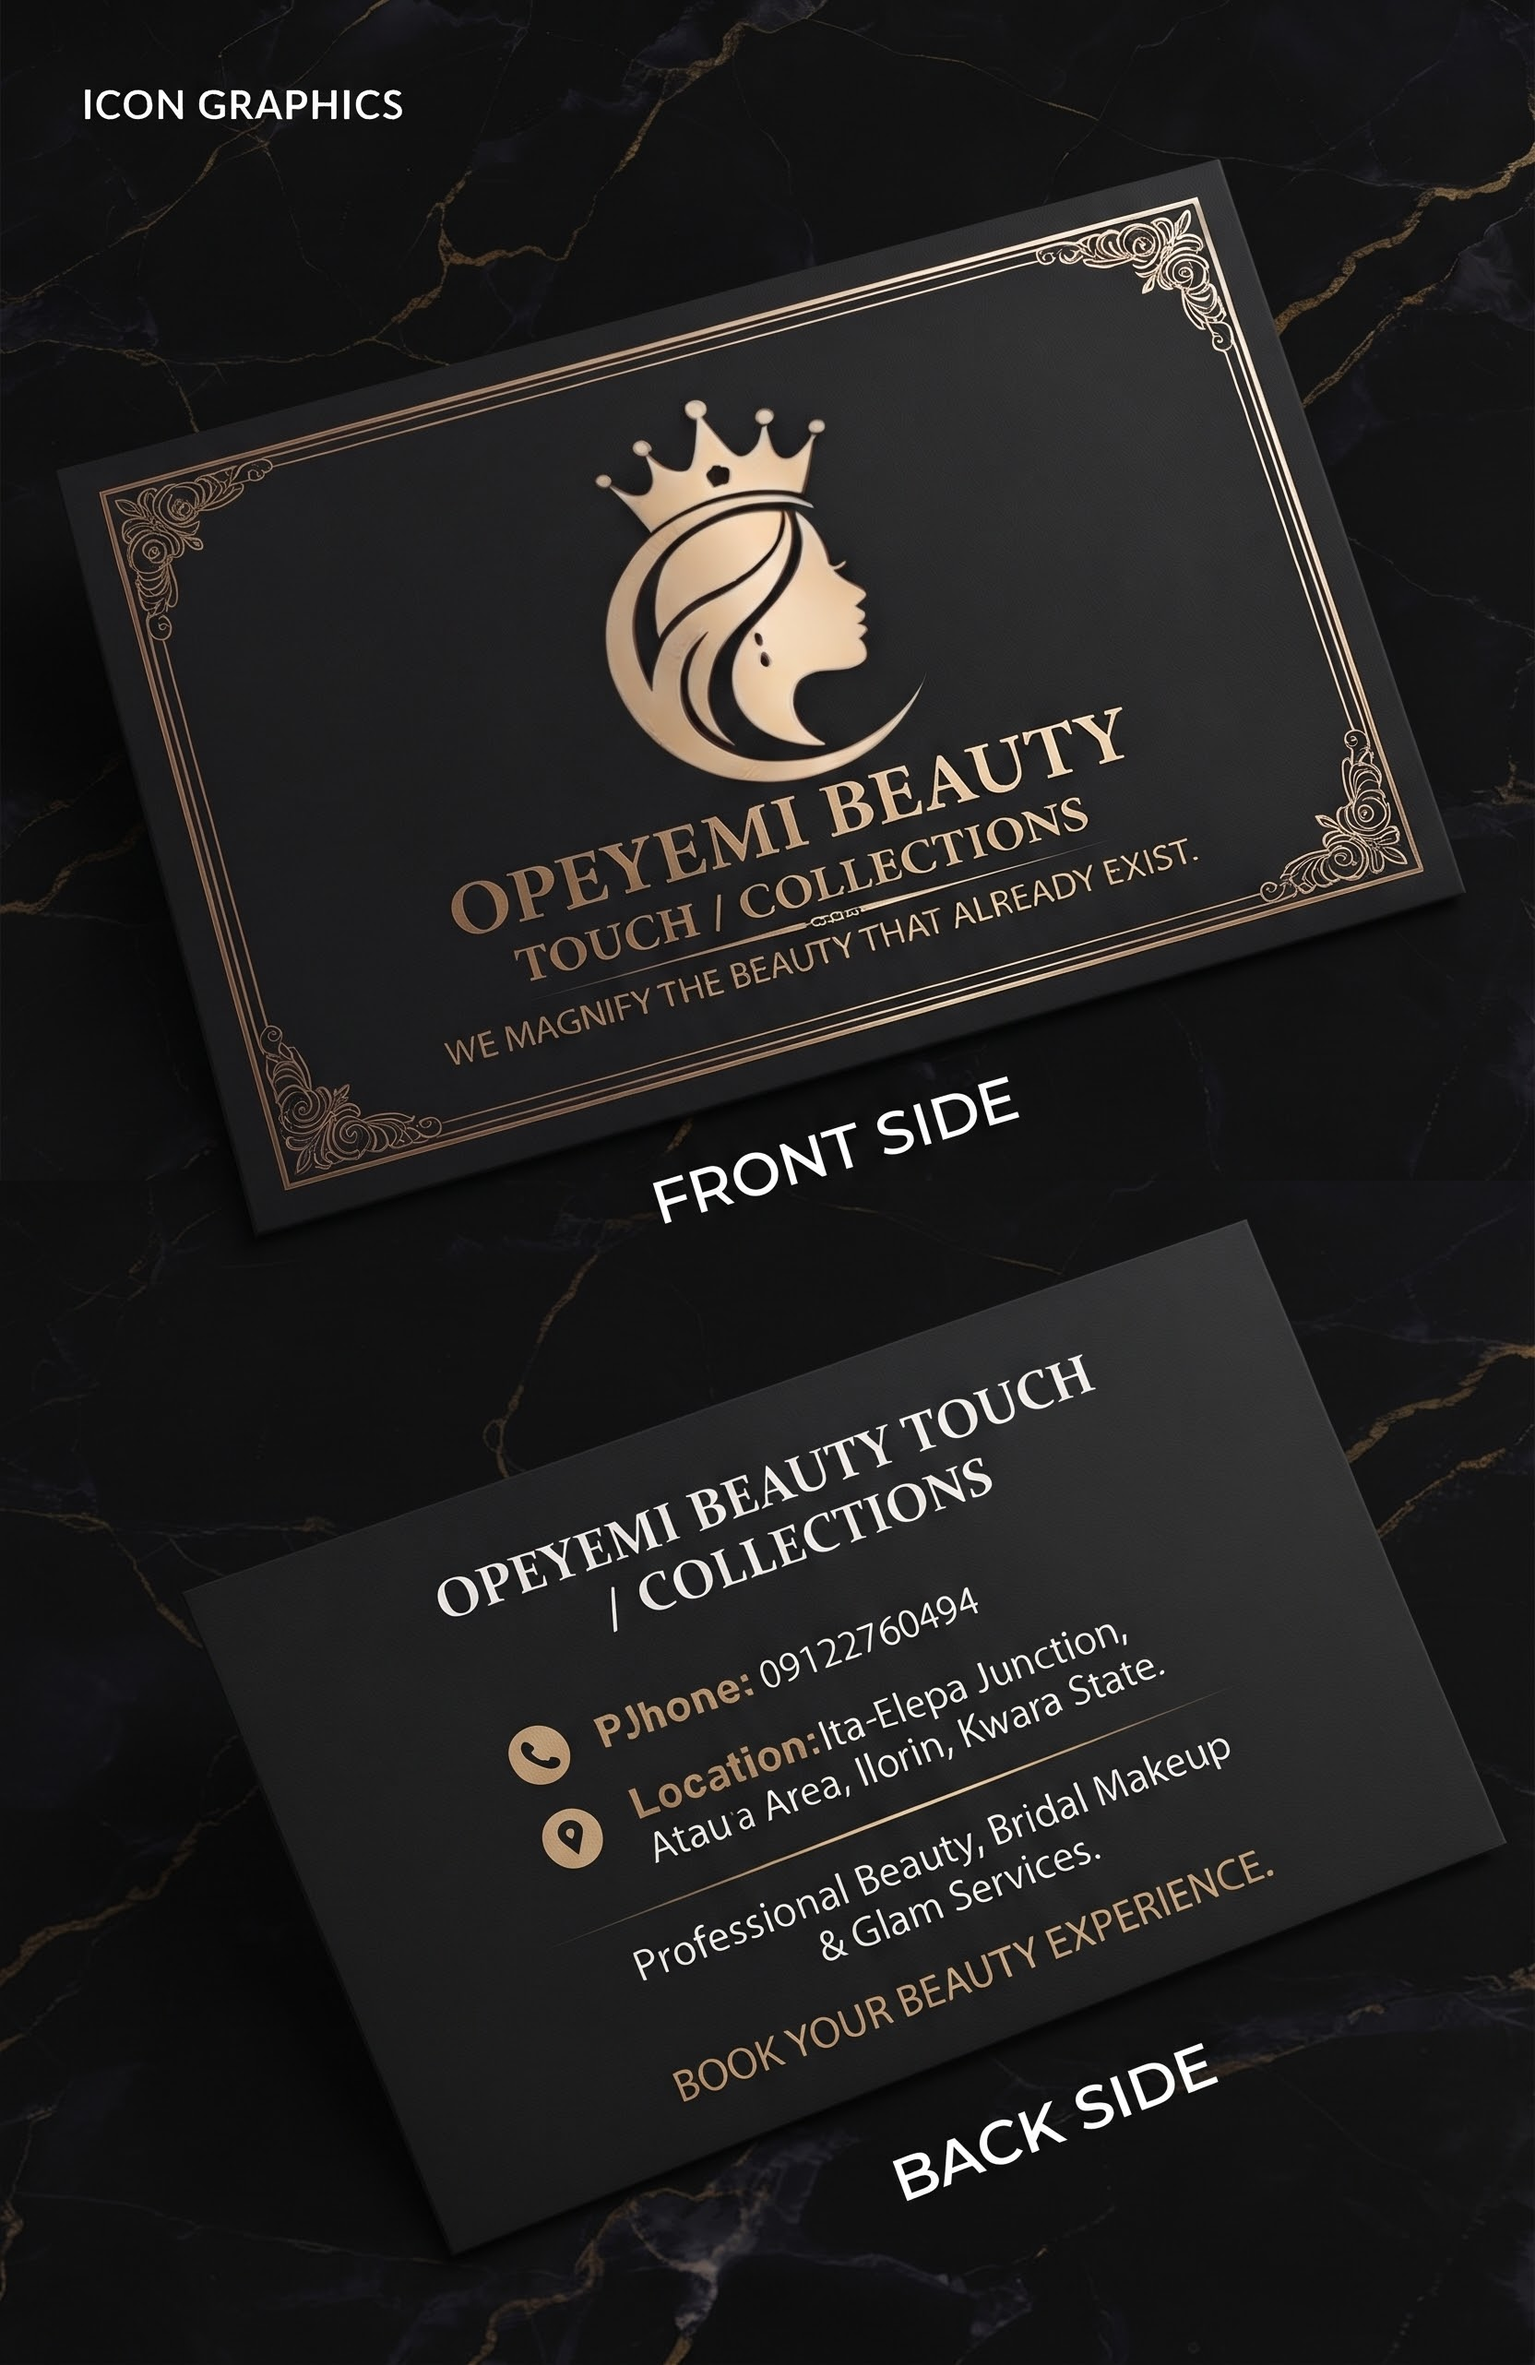
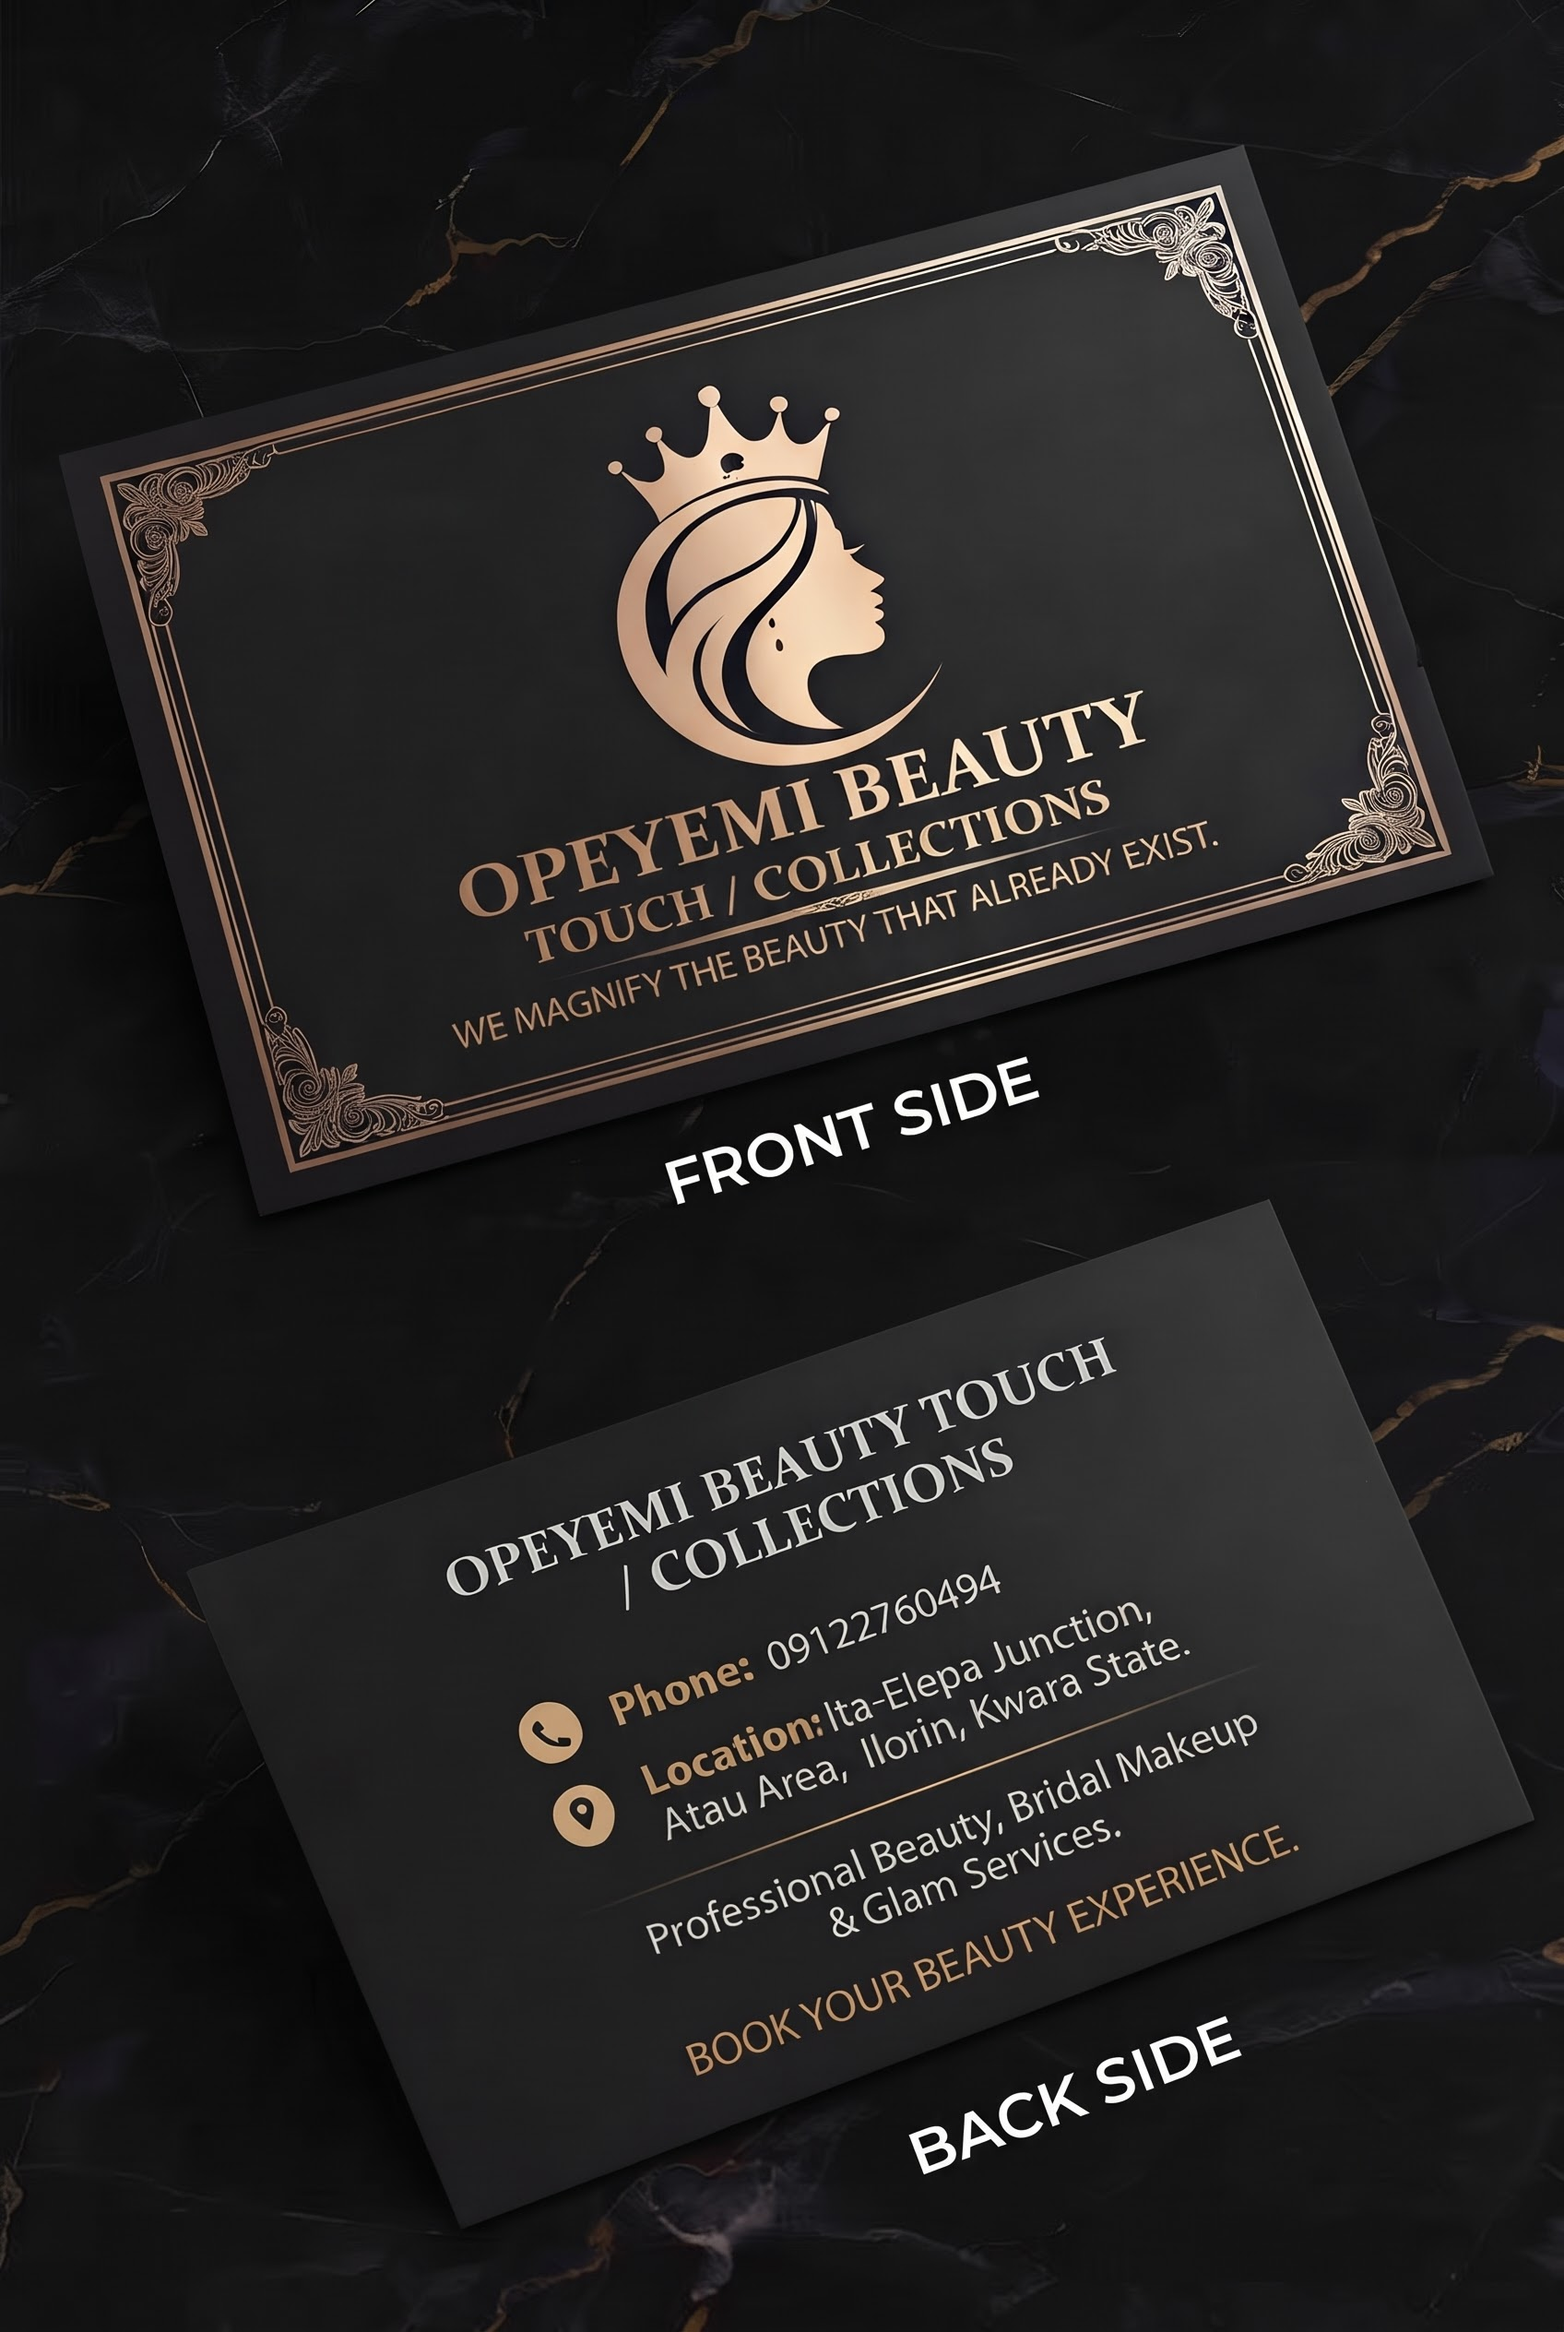
Fix FAQ mobile order and add sticky project summary card to case studies (6aec601d8c84303aaf4811d5)

diff --git a/src/components/MarketingPage.tsx b/src/components/MarketingPage.tsx
@@ -942,7 +942,7 @@ export function FAQ() {
   return (
     <section className="section light" id="faq">
       <div className="wrap faq-layout">
-        <div>
+        <div className="faq-intro">
           <Label>A LITTLE CLARITY</Label>
           <h2>
             You ask.
@@ -953,30 +953,11 @@ export function FAQ() {
             Everything you need to know about starting a project, transparent
             pricing, revision workflows, and delivery arrangements.
           </p>
-          <aside className="faq-contact-card" aria-labelledby="faq-contact-title">
-            <h3 id="faq-contact-title">Still have questions?</h3>
-            <div className="faq-contact-person">
-              <img
-                src="/.netlify/images?url=/img/rapheal-adebayo-supplied.jpeg&w=128&h=128&fit=cover"
-                alt="Rapheal Adebayo, Founder & Creative Director"
-                width={64}
-                height={64}
-                loading="lazy"
-              />
-              <p>
-                Talk directly with Rapheal Adebayo, Founder &amp; Creative
-                Director.
-              </p>
-            </div>
-            <WA
-              className="faq-contact-button"
-              message="Hello Rapheal, I have a question about working with ICON GRAPHICS."
-            >
-              Chat on WhatsApp
-            </WA>
-          </aside>
         </div>
-        <div style={{ display: 'flex', flexDirection: 'column', gap: '32px' }}>
+        <div
+          className="faq-list"
+          style={{ display: 'flex', flexDirection: 'column', gap: '32px' }}
+        >
           {faqCategories.map((category) => (
             <div key={category.title}>
               <h3
@@ -1005,6 +986,28 @@ export function FAQ() {
             </div>
           ))}
         </div>
+        <aside className="faq-contact-card" aria-labelledby="faq-contact-title">
+          <h3 id="faq-contact-title">Still have questions?</h3>
+          <div className="faq-contact-person">
+            <img
+              src="/.netlify/images?url=/img/rapheal-adebayo-supplied.jpeg&w=128&h=128&fit=cover"
+              alt="Rapheal Adebayo, Founder & Creative Director"
+              width={64}
+              height={64}
+              loading="lazy"
+            />
+            <p>
+              Talk directly with Rapheal Adebayo, Founder &amp; Creative
+              Director.
+            </p>
+          </div>
+          <WA
+            className="faq-contact-button"
+            message="Hello Rapheal, I have a question about working with ICON GRAPHICS."
+          >
+            Chat on WhatsApp
+          </WA>
+        </aside>
       </div>
     </section>
   )
@@ -1866,6 +1869,8 @@ export function Portfolio({
 }
 export function ProjectDetail({ project }: { project: Project }) {
   const s = services.find((s) => s.id === project.category)!
+  const projectServices =
+    project.label?.split('·')[1]?.trim() || s.title
   return (
     <Layout>
       <PageHero
@@ -1953,9 +1958,40 @@ export function ProjectDetail({ project }: { project: Project }) {
         ) : null}
 
         <div className="project-description">
-          <div>
+          <div className="project-summary-column">
             <Label>CASE STUDY OVERVIEW</Label>
             <h2>Project details.</h2>
+            <aside
+              className="project-summary-card"
+              aria-labelledby="project-summary-title"
+            >
+              <h3 id="project-summary-title">Project summary</h3>
+              <dl>
+                <div>
+                  <dt>Client</dt>
+                  <dd>{project.client || project.title}</dd>
+                </div>
+                <div>
+                  <dt>Services provided</dt>
+                  <dd>{projectServices}</dd>
+                  {projectServices !== s.title ? (
+                    <dd className="project-summary-meta">{s.title}</dd>
+                  ) : null}
+                </div>
+                {project.location ? (
+                  <div>
+                    <dt>Location</dt>
+                    <dd>{project.location}</dd>
+                  </div>
+                ) : null}
+              </dl>
+              <WA
+                className="project-summary-button"
+                message={`Hello ICON GRAPHICS, I saw your case study for ${project.title} and would like to enquire about a similar project.`}
+              >
+                Enquire on WhatsApp
+              </WA>
+            </aside>
           </div>
           <div>
             <p>{project.description}</p>

diff --git a/src/styles.css b/src/styles.css
@@ -5544,3 +5544,131 @@ video {
     transform: none;
   }
 }
+
+/* ===== FAQ: questions first on mobile, sticky contact card on desktop ===== */
+@media (min-width: 769px) {
+  .faq-layout {
+    grid-template-rows: auto 1fr;
+    row-gap: 0;
+  }
+  .faq-layout > .faq-intro {
+    grid-column: 1;
+    grid-row: 1;
+  }
+  .faq-layout > .faq-list {
+    grid-column: 2;
+    grid-row: 1 / span 2;
+  }
+  .faq-layout > .faq-contact-card {
+    grid-column: 1;
+    grid-row: 2;
+    align-self: start;
+    position: sticky;
+    top: 110px;
+  }
+}
+@media (max-width: 768px) {
+  .faq-layout > .faq-contact-card {
+    margin-top: 8px;
+  }
+}
+
+/* ===== Case study: sticky project summary card ===== */
+.project-description {
+  align-items: start;
+}
+.project-summary-column {
+  position: sticky;
+  top: 110px;
+  align-self: start;
+}
+.project-summary-card {
+  margin-top: 32px;
+  padding: 28px;
+  border-radius: 16px;
+  background: linear-gradient(
+    160deg,
+    rgba(255, 255, 255, 0.08) 0%,
+    rgba(255, 255, 255, 0.03) 100%
+  );
+  border: 1px solid rgba(255, 255, 255, 0.12);
+  box-shadow: 0 20px 50px rgba(0, 0, 0, 0.35);
+  -webkit-backdrop-filter: blur(14px);
+  backdrop-filter: blur(14px);
+}
+.project-summary-card h3 {
+  margin: 0 0 20px;
+  font-size: 13px;
+  font-weight: 700;
+  letter-spacing: 0.16em;
+  text-transform: uppercase;
+  color: #00b4d8 !important;
+}
+.project-summary-card dl {
+  margin: 0 0 26px;
+}
+.project-summary-card dl > div {
+  padding: 14px 0;
+  border-top: 1px solid rgba(255, 255, 255, 0.1);
+}
+.project-summary-card dl > div:first-child {
+  border-top: 0;
+  padding-top: 0;
+}
+.project-summary-card dt {
+  font-size: 10px;
+  font-weight: 600;
+  letter-spacing: 0.16em;
+  text-transform: uppercase;
+  color: #8b8f99 !important;
+}
+.project-summary-card dd {
+  margin: 6px 0 0;
+  font-size: 16px;
+  line-height: 1.45;
+  color: #ffffff !important;
+}
+.project-summary-card dd.project-summary-meta {
+  margin-top: 4px;
+  font-size: 13px;
+  color: #a6aab4 !important;
+}
+.project-summary-button {
+  display: inline-flex;
+  align-items: center;
+  justify-content: center;
+  width: 100%;
+  min-height: 50px;
+  padding: 0 22px;
+  border-radius: 999px;
+  background: linear-gradient(135deg, #f72585 0%, #9b5de5 50%, #00b4d8 100%);
+  color: #ffffff !important;
+  font-weight: 700;
+  box-shadow: 0 6px 20px rgba(247, 37, 133, 0.3);
+  transition: transform 0.2s ease, box-shadow 0.2s ease;
+}
+.project-summary-button:hover {
+  transform: translateY(-2px);
+  box-shadow: 0 8px 26px rgba(247, 37, 133, 0.5);
+}
+.project-summary-button:focus-visible {
+  outline: 2px solid #00b4d8;
+  outline-offset: 3px;
+}
+@media (max-width: 768px) {
+  .project-summary-column {
+    position: static;
+  }
+  .project-summary-card {
+    margin-top: 24px;
+    padding: 22px;
+  }
+}
+@media (prefers-reduced-motion: reduce) {
+  .project-summary-button {
+    transition: none;
+  }
+  .project-summary-button:hover {
+    transform: none;
+  }
+}

diff --git a/src/data/site.ts b/src/data/site.ts
@@ -528,8 +528,8 @@ export const clientProjects: Project[] = [
         src: '/portfolio/opeyemi-beauty-touch-business-cards.jpg',
         alt: 'Front and back of the black and rose-gold Opeyemi Beauty Touch / Collections business card on dark marble: the front shows the crowned silhouette logo, ornate gold border and the tagline We magnify the beauty that already exist; the back lists phone, Ilorin location and the call to action Book your beauty experience',
         caption: 'Business card · front & back',
-        width: 1664,
-        height: 2564,
+        width: 1696,
+        height: 2528,
       },
     ],
     description:

diff --git a/AGENTS.md b/AGENTS.md
@@ -24,4 +24,4 @@ Projects may define a `gallery` (src, alt, caption, intrinsic size) of supplied 
 
 On the Services page, each service shows its first real project card. When a service has no supplied project yet (currently photography, video, web, writing and audio), `ServicePreview` in `MarketingPage.tsx` shows a card with the same structure instead. It uses Unsplash stock photography served through the Image CDN, plus code-native mockups: a viewfinder, a video player whose play button plays the real showreel promo, a laptop showing a dark-theme site, an editorial page and an animated waveform that respects reduced motion. Each card is labelled "CONCEPT PREVIEW". Once real work exists for a service, the project card replaces the preview automatically.
 
-The homepage "The ICON GRAPHICS Difference." section (`IconDifference`, after the services overview) is a dark glassmorphism 4-column grid (2 columns on tablet, 1 on mobile) of four fixed points in `DIFFERENCE_POINTS`; it replaced both the former Studio Capabilities grid and the older homepage "Why" block (`Why` is still used on the About page). Portfolio media in `Art` (cards on the homepage, portfolio and services pages) and the case-study showcase use `object-fit: contain` on a `#121212` bordered stage so artwork is never cropped. Case-study promo videos render through `CaseVideo`, a branded video card: the client's own portfolio image (`project.image`, served through the Image CDN at 40% opacity on a `#121212` pink/purple gradient stage) with a glowing play button covers the video (`preload="auto"`, `playsInline`). Clicking it removes the cover, turns on native controls and starts playback, so no poster uploads are needed. "CONCEPT PREVIEW" badges (`.concept-pill`) use a solid `#0a0a0a` background, white text and a thin translucent border so they stay readable on any image. The homepage FAQ's left column is sticky on desktop and holds a "Still have questions?" WhatsApp contact card with the founder photo. The hero ends with a "SCROLL TO EXPLORE" link whose arrow only bounces when reduced motion is off. `LOCATION` in `src/data/site.ts` holds the official headquarters and availability wording, rendered as a stacked `.location-block` (small grey uppercase labels, white values) in the footer and on the contact/quote aside. Use it as-is and never add a street address.
+The homepage "The ICON GRAPHICS Difference." section (`IconDifference`, after the services overview) is a dark glassmorphism 4-column grid (2 columns on tablet, 1 on mobile) of four fixed points in `DIFFERENCE_POINTS`; it replaced both the former Studio Capabilities grid and the older homepage "Why" block (`Why` is still used on the About page). Portfolio media in `Art` (cards on the homepage, portfolio and services pages) and the case-study showcase use `object-fit: contain` on a `#121212` bordered stage so artwork is never cropped. Case-study promo videos render through `CaseVideo`, a branded video card: the client's own portfolio image (`project.image`, served through the Image CDN at 40% opacity on a `#121212` pink/purple gradient stage) with a glowing play button covers the video (`preload="auto"`, `playsInline`). Clicking it removes the cover, turns on native controls and starts playback, so no poster uploads are needed. "CONCEPT PREVIEW" badges (`.concept-pill`) use a solid `#0a0a0a` background, white text and a thin translucent border so they stay readable on any image. The FAQ renders intro, question list, then the "Still have questions?" WhatsApp contact card (founder photo) in source order, so on mobile the card follows the last question; on desktop (above 768px) grid placement puts the card under the intro in the left column, sticky, while the list spans the right column. Every case study's left column holds a sticky dark glassmorphism "Project summary" card (client, services from the text after `·` in `label` plus the service category, `location`, gradient WhatsApp enquiry button); it becomes static on mobile. The hero ends with a "SCROLL TO EXPLORE" link whose arrow only bounces when reduced motion is off. `LOCATION` in `src/data/site.ts` holds the official headquarters and availability wording, rendered as a stacked `.location-block` (small grey uppercase labels, white values) in the footer and on the contact/quote aside. Use it as-is and never add a street address.
